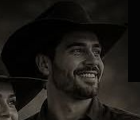
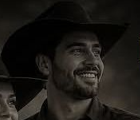
Ajuste

Changed region(s): [[0.9143, 0.575, 1.0, 0.7], [0.9714, 0.55, 1.0, 0.575], [0.9714, 0.5, 1.0, 0.525]]

diff --git a/src/home.css b/src/home.css
@@ -1026,8 +1026,8 @@
   max-height: none;
   margin: 0;
   object-fit: cover;
-  object-position: 42% 35%;
-  filter: brightness(1.04) contrast(1.04);
+  object-position: 48% 32%;
+  filter: brightness(1.03) contrast(1.03);
 }
 
 .hero-section__media-overlay {
@@ -1037,18 +1037,18 @@
   background:
     linear-gradient(
       180deg,
-      rgba(5, 5, 5, 0.18) 0%,
-      transparent 28%,
-      transparent 48%,
-      rgba(5, 5, 5, 0.45) 68%,
-      rgba(5, 5, 5, 0.88) 100%
+      rgba(5, 5, 5, 0.12) 0%,
+      transparent 26%,
+      transparent 52%,
+      rgba(5, 5, 5, 0.42) 72%,
+      rgba(5, 5, 5, 0.9) 100%
     ),
     linear-gradient(
       90deg,
-      rgba(5, 5, 5, 0.22) 0%,
-      transparent 28%,
-      transparent 58%,
-      rgba(5, 5, 5, 0.35) 100%
+      rgba(5, 5, 5, 0.12) 0%,
+      transparent 30%,
+      transparent 62%,
+      rgba(5, 5, 5, 0.22) 100%
     );
   pointer-events: none;
   opacity: 1;
@@ -2218,15 +2218,15 @@
   }
 
   .hero-section__image {
-    object-position: 38% 30%;
+    object-position: 42% 28%;
   }
 
   .hero-section__media-overlay {
     background: linear-gradient(
       180deg,
-      rgba(5, 5, 5, 0.2) 0%,
-      transparent 30%,
-      transparent 42%,
+      rgba(5, 5, 5, 0.16) 0%,
+      transparent 28%,
+      transparent 40%,
       rgba(5, 5, 5, 0.55) 70%,
       rgba(5, 5, 5, 0.92) 100%
     );

diff --git a/src/components/home/HeroSection.jsx b/src/components/home/HeroSection.jsx
@@ -24,11 +24,9 @@ function HeroSection() {
           <div className="hero-section__particles" aria-hidden="true" />
 
           <div className="hero-section__copy">
-            <p className="hero-section__label">{heroContent.label}</p>
             <h1 id="hero-title" className="hero-section__title">
               {heroContent.title}
             </h1>
-            <p className="hero-section__slogan">{heroContent.slogan}</p>
             <p className="hero-section__support">{heroContent.support}</p>
 
             <div className="hero-section__actions">
